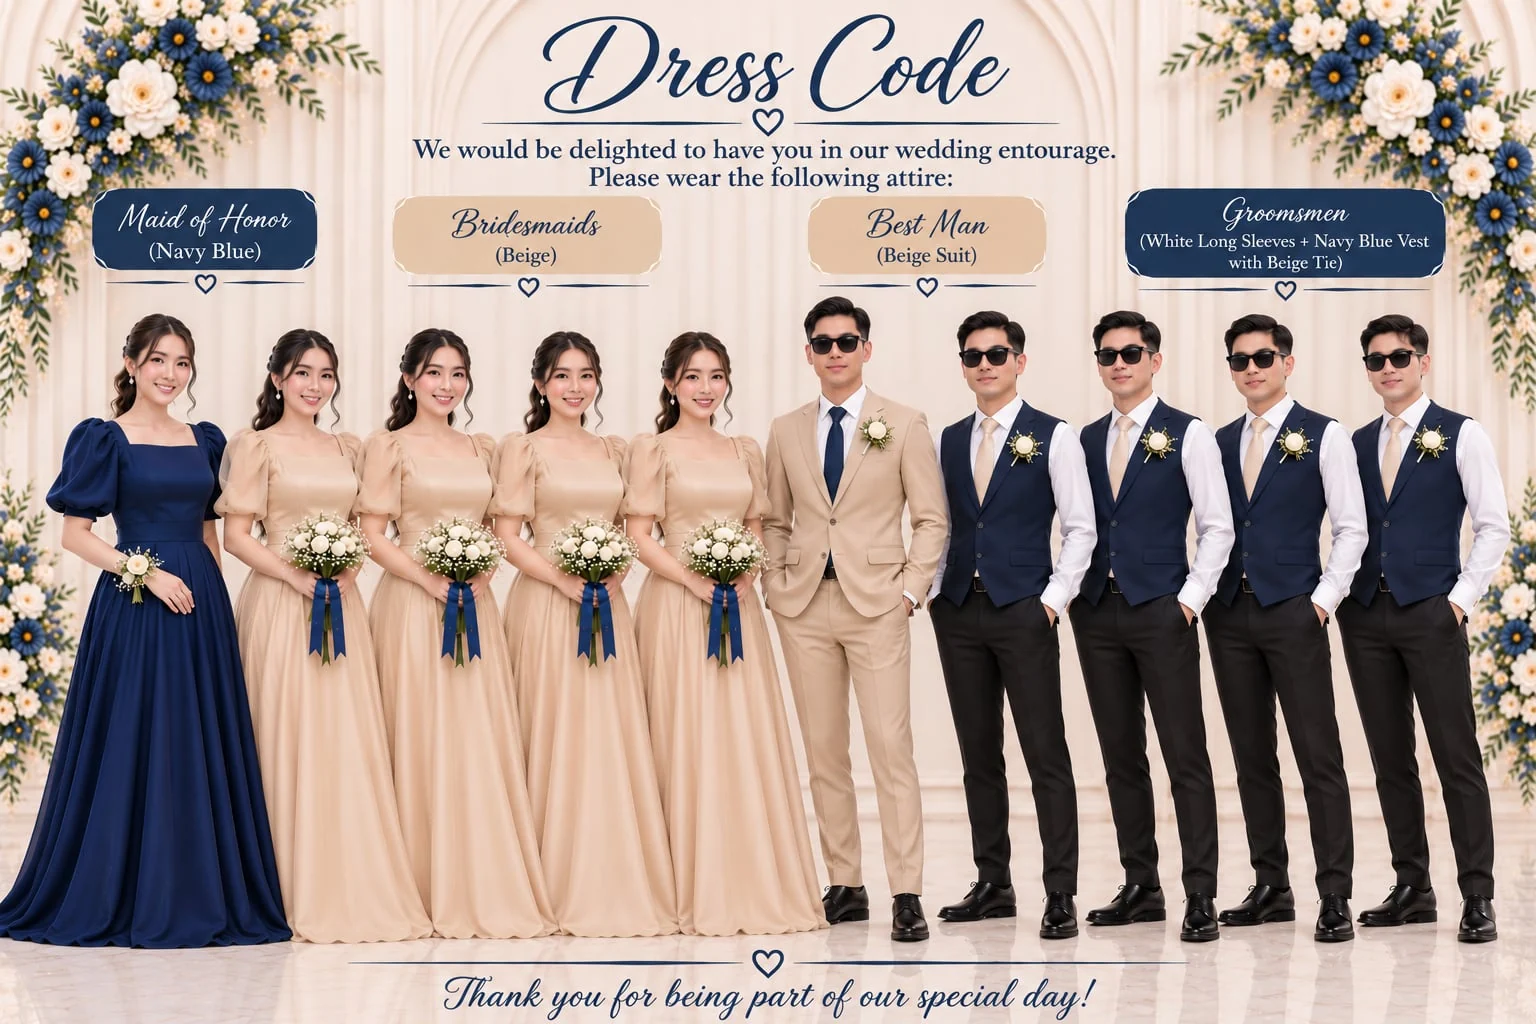
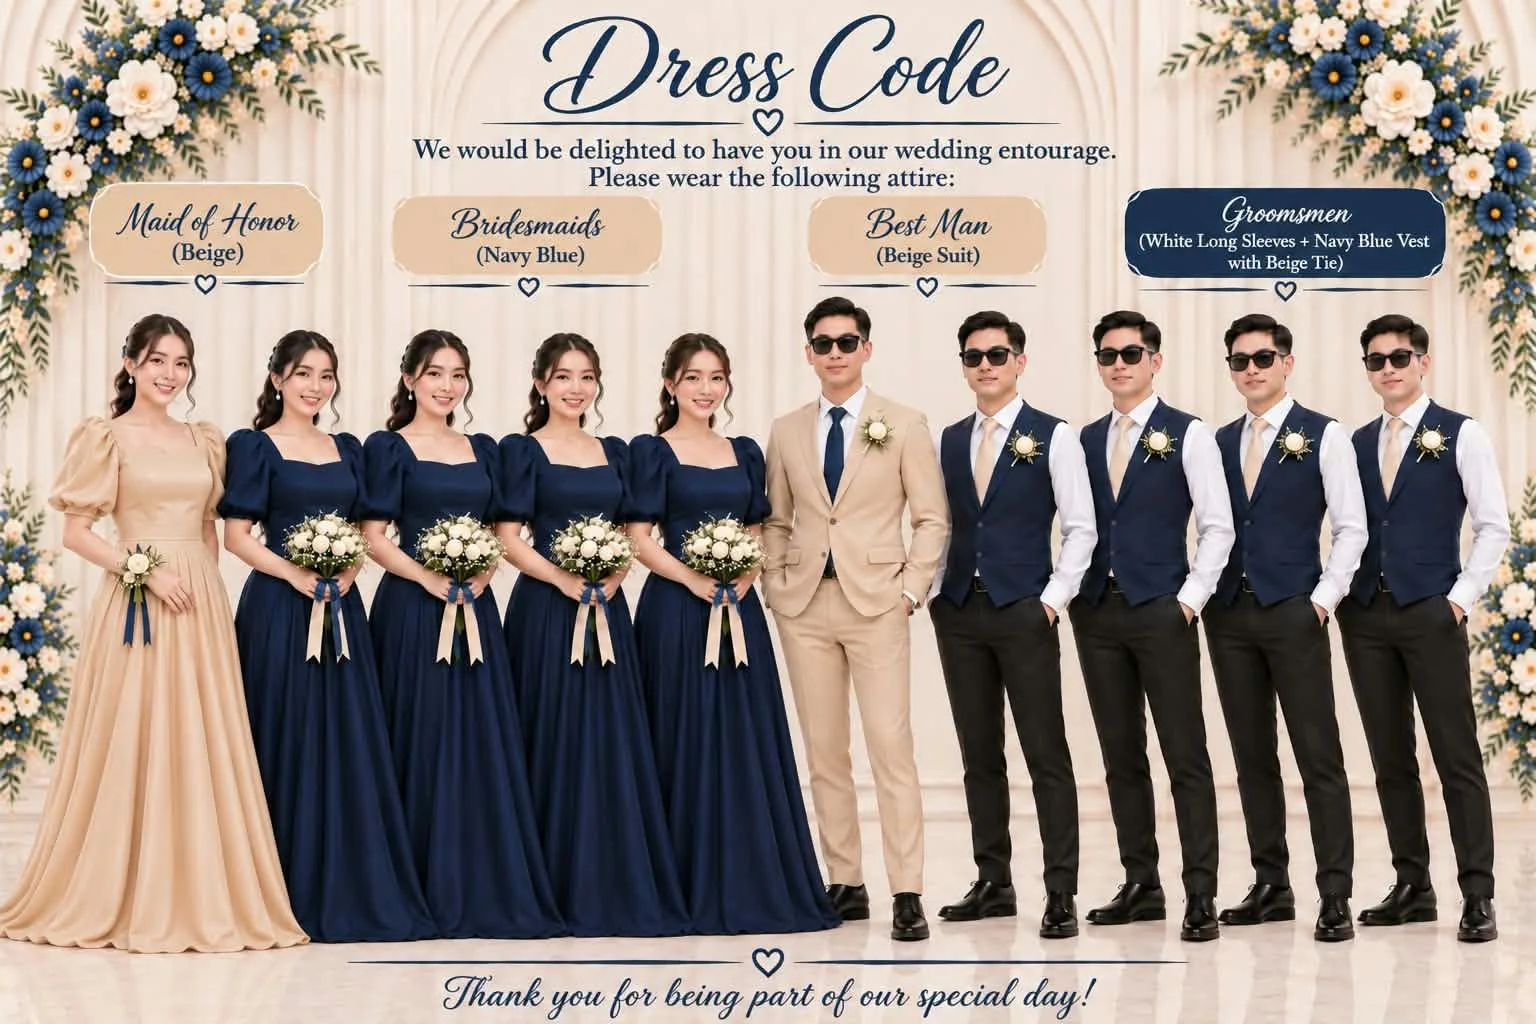
Update the entourage dress code board
The couple's new version of the same board -- maid of honor, bridesmaids, best man and groomsmen, same 1536x1024 frame -- converted to WebP at 205KB, because DRESS_BOARDS points at the .webp and the .jpg that arrived in its place would have left that board broken.

Its alt text had the maid of honor in navy and the bridesmaids in beige. The new board says the opposite, so the description follows it: maid of honor in beige, bridesmaids in navy blue.

Checked at 430px: 48 reveals, none left hidden, no image unloaded, no sideways scroll.

diff --git a/src/data/wedding.ts b/src/data/wedding.ts
@@ -389,7 +389,7 @@ export const DRESS_BOARDS: { src: string; label: string; alt: string }[] = [
   {
     src: p("/photos/dresscode-entourage.webp"),
     label: "For the Entourage",
-    alt: "Dress code for the entourage — maid of honor in navy blue, bridesmaids in beige, best man in a beige suit, and groomsmen in white long sleeves with a navy blue vest and beige tie",
+    alt: "Dress code for the entourage — maid of honor in beige, bridesmaids in navy blue, best man in a beige suit, and groomsmen in white long sleeves with a navy blue vest and beige tie",
   },
   {
     src: p("/photos/dresscode-guests.webp"),
